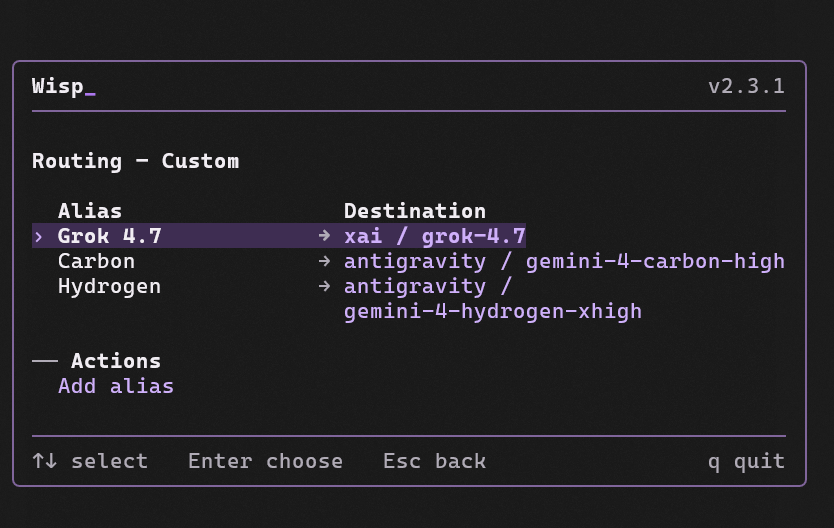
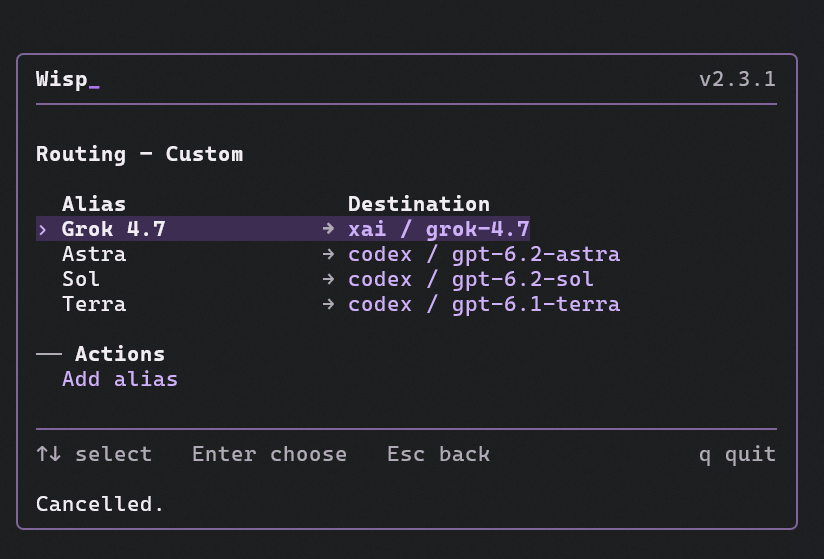
docs: refresh routing and Claude Code screenshots

Changed region(s): [[0.0, 0.0909, 0.9709, 0.9697]]

diff --git a/README.md b/README.md
@@ -113,7 +113,7 @@ Logs also include chats handled by VS Code. See [session logging](docs/session-l
 Give your models names you can remember. An **alias** such as `sol`, `terra`, or `grok` points to a specific provider and model. Create or change aliases with **`/routing`** in Wisp, then launch `claude-wisp --model <alias>`. The launcher lists aliases under **From gateway** and allows live switching, with Claude Code's own context-budget assumptions. Exact budgets are available through `--exact-context`, which pins the selected target.
 
 <p align="center">
-  <img src="docs/routing-tui.png" alt="Custom routing table showing the Grok 4.7, Carbon, and Hydrogen aliases and their destinations" width="720">
+  <img src="docs/routing-tui.png" alt="Custom routing table showing the Grok 4.7, Astra, Sol, and Terra aliases and their destinations" width="720">
 </p>
 
 In **`/routing → Custom`**, select **Add alias** to name a new route. Select a saved alias for **Change provider**, **Rename alias**, or **Remove alias**. **Change provider** opens the provider list, then the model picker. Check the proposed destination and press **Enter** to apply it. In provider lists, **Custom** comes first and the rest are sorted by display name.
@@ -124,13 +124,13 @@ In **`/routing → Claude Code`**, the family binding action previews stable mod
 <summary>See aliases in Claude Code</summary>
 
 <p align="center">
-  <img src="docs/claude-model-picker.png" alt="Claude Code model picker showing Wisp gateway aliases" width="720">
+  <img src="docs/claude-model-picker.png" alt="Claude Code model picker with Astra selected from the Wisp gateway aliases" width="720">
 </p>
 
 Once selected, the alias is the model you work with in your session:
 
 <p align="center">
-  <img src="docs/claude-wisp-session.png" alt="Claude Code session using the grok alias through Wisp" width="720">
+  <img src="docs/claude-wisp-session.png" alt="Claude Code session using the Astra alias with xhigh effort through Wisp" width="720">
 </p>
 
 </details>
